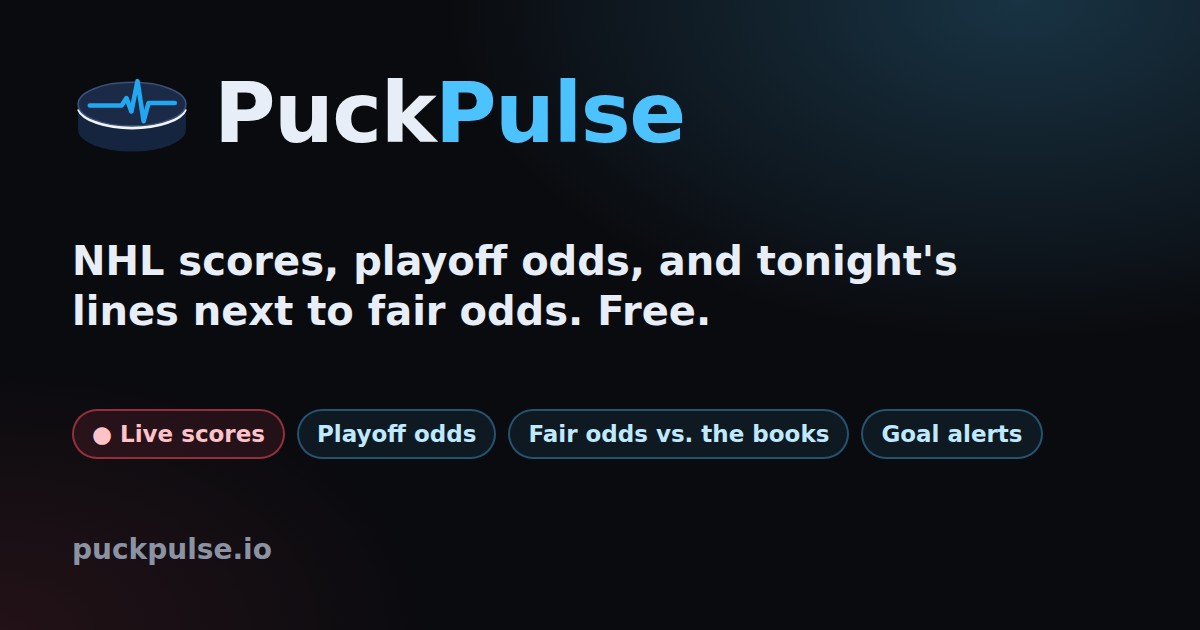
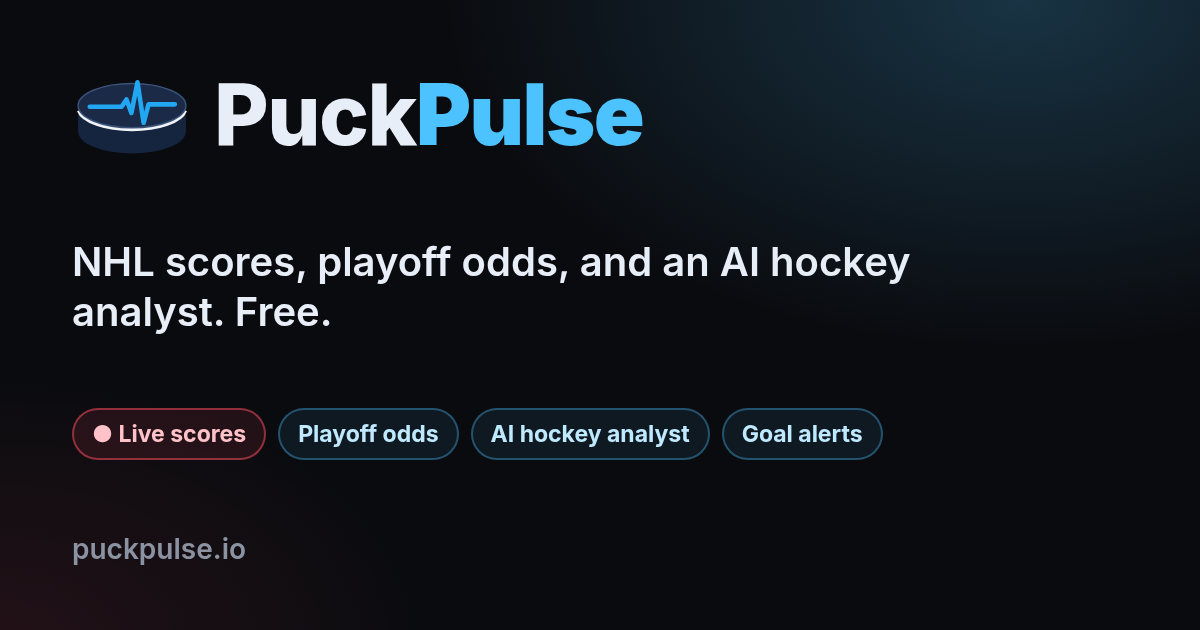
Pre-launch SEO/share fixes: neutral preview, robots + sitemap, page titles, /t/ team cards

diff --git a/frontend/src/seo/site.js b/frontend/src/seo/site.js
@@ -1,0 +1,54 @@
+// The site's public routes and teams, in one place: the sitemap
+// (public/sitemap.xml, checked by site.test.js), page titles (usePageTitle),
+// and the /t/{abbrev} share links all read from here.
+
+export const SITE = "https://puckpulse.io";
+
+export const TEAMS = {
+  ANA: "Anaheim Ducks", BOS: "Boston Bruins", BUF: "Buffalo Sabres", CGY: "Calgary Flames",
+  CAR: "Carolina Hurricanes", CHI: "Chicago Blackhawks", COL: "Colorado Avalanche", CBJ: "Columbus Blue Jackets",
+  DAL: "Dallas Stars", DET: "Detroit Red Wings", EDM: "Edmonton Oilers", FLA: "Florida Panthers",
+  LAK: "Los Angeles Kings", MIN: "Minnesota Wild", MTL: "Montréal Canadiens", NSH: "Nashville Predators",
+  NJD: "New Jersey Devils", NYI: "New York Islanders", NYR: "New York Rangers", OTT: "Ottawa Senators",
+  PHI: "Philadelphia Flyers", PIT: "Pittsburgh Penguins", SJS: "San Jose Sharks", SEA: "Seattle Kraken",
+  STL: "St. Louis Blues", TBL: "Tampa Bay Lightning", TOR: "Toronto Maple Leafs", UTA: "Utah Mammoth",
+  VAN: "Vancouver Canucks", VGK: "Vegas Golden Knights", WSH: "Washington Capitals", WPG: "Winnipeg Jets",
+};
+
+// Indexable top-level pages (no per-game/player pages, no redirects).
+export const PAGES = [
+  { path: "/", title: null },
+  { path: "/standings", title: "NHL Standings" },
+  { path: "/playoffs", title: "NHL Playoff Odds" },
+  { path: "/players", title: "NHL Player Leaders" },
+  { path: "/news", title: "NHL News" },
+  { path: "/track-record", title: "Prediction Track Record" },
+  { path: "/report-card", title: "Report Card" },
+  { path: "/draft-lottery", title: "NHL Draft Lottery Odds" },
+  { path: "/pickem", title: "Pick'em" },
+  { path: "/bets", title: "Bets", index: false }, // kept out of the sitemap: launch leads with non-betting pages
+];
+
+export const SITEMAP_PATHS = [...PAGES.filter((p) => p.index !== false).map((p) => p.path), ...Object.keys(TEAMS).map((t) => `/teams/${t}`)];
+
+export const BRAND = "PuckPulse";
+export const DEFAULT_TITLE = "PuckPulse: NHL scores, playoff odds, and an AI hockey analyst";
+
+// The document title for a path ("Standings | PuckPulse", "Buffalo Sabres playoff odds | PuckPulse").
+export function titleFor(pathname) {
+  const path = pathname.replace(/\/+$/, "") || "/";
+  const team = path.match(/^\/teams\/([A-Za-z]{3})$/);
+  if (team) {
+    const name = TEAMS[team[1].toUpperCase()];
+    return name ? `${name} playoff odds & stats | ${BRAND}` : DEFAULT_TITLE;
+  }
+  if (/^\/games\/\d+$/.test(path)) return `Game | ${BRAND}`;
+  if (/^\/players\/\d+$/.test(path)) return `Player | ${BRAND}`;
+  const page = PAGES.find((p) => p.path === path);
+  return page && page.title ? `${page.title} | ${BRAND}` : DEFAULT_TITLE;
+}
+
+export function sitemapXml(paths = SITEMAP_PATHS) {
+  const urls = paths.map((p) => `  <url><loc>${SITE}${p === "/" ? "/" : p}</loc></url>`).join("\n");
+  return `<?xml version="1.0" encoding="UTF-8"?>\n<urlset xmlns="http://www.sitemaps.org/schemas/sitemap/0.9">\n${urls}\n</urlset>\n`;
+}

diff --git a/frontend/api/share/index.js b/frontend/api/share/index.js
@@ -5,7 +5,8 @@
 // sends people straight on to the game page.
 //
 // staticwebapp.config.json rewrites /g/* here; the game id comes from the
-// original URL (or /api/share/{id} directly).
+// original URL (or /api/share/{id} directly). /t/{team abbrev} works the
+// same way for a team, sending people on to the team page.
 
 const API = "https://nhl-dashboard-api.bravecoast-a5240643.westus2.azurecontainerapps.io";
 const SITE = "https://puckpulse.io";
@@ -19,6 +20,22 @@ function gameId(req) {
   const fromUrl = (original.match(/\/g\/(\d+)/) || [])[1];
   const id = fromRoute || fromUrl || (req.query && req.query.id);
   return /^\d{6,12}$/.test(String(id || "")) ? String(id) : null;
+}
+
+// The 32 teams a /t/ link may name (matches frontend/src/seo/site.js).
+const TEAMS = new Set(("ANA BOS BUF CGY CAR CHI COL CBJ DAL DET EDM FLA LAK MIN MTL NSH NJD NYI NYR OTT " +
+  "PHI PIT SJS SEA STL TBL TOR UTA VAN VGK WSH WPG").split(" "));
+
+// "BUF" for /t/BUF (or /api/share/t/BUF, ?team=BUF); null for anything not a known team.
+function teamAbbrev(req) {
+  const original = req.headers["x-ms-original-url"] || "";
+  const fromUrl = (original.match(/\/t\/([A-Za-z]{3})(?:[/?#]|$)/) || [])[1];
+  const abbrev = String(fromUrl || (req.query && req.query.team) || "").toUpperCase();
+  return TEAMS.has(abbrev) ? abbrev : null;
+}
+
+function isTeamLink(req) {
+  return /\/t\//.test(req.headers["x-ms-original-url"] || "") || Boolean(req.query && req.query.team);
 }
 
 function page({ title, description, image, url }) {
@@ -39,14 +56,22 @@ ${tags.join("\n")}
 }
 
 module.exports = async function (context, req) {
-  const id = gameId(req);
+  const team = isTeamLink(req) ? teamAbbrev(req) : null;
+  const id = isTeamLink(req) ? null : gameId(req);
   let meta = {
-    title: "PuckPulse: NHL scores, playoff odds, and fair betting odds",
-    description: "Live NHL scores, playoff odds, goal alerts, and tonight's lines next to fair odds. Free.",
+    title: "PuckPulse: NHL scores, playoff odds, and an AI hockey analyst",
+    description: "Live NHL scores, playoff odds for every team, goal alerts, and an AI hockey analyst you can ask anything. Free.",
     image: `${SITE}/og-card.png`,
-    url: id ? `${SITE}/games/${id}` : SITE,
+    url: id ? `${SITE}/games/${id}` : team ? `${SITE}/teams/${team}` : SITE,
   };
-  if (id) {
+  if (team) {
+    try {
+      const response = await fetch(`${API}/teams/${team}/share`, { signal: AbortSignal.timeout(6000) });
+      if (response.ok) meta = { ...meta, ...(await response.json()) };
+    } catch (error) {
+      context.log.warn(`share team ${team}: ${error}`);
+    }
+  } else if (id) {
     try {
       const response = await fetch(`${API}/games/${id}/share`, { signal: AbortSignal.timeout(6000) });
       if (response.ok) meta = { ...meta, ...(await response.json()) };
@@ -60,3 +85,5 @@ module.exports = async function (context, req) {
     body: page(meta),
   };
 };
+
+module.exports.TEAMS = TEAMS;

diff --git a/frontend/src/seo/site.test.js b/frontend/src/seo/site.test.js
@@ -1,0 +1,55 @@
+import { readFileSync } from "node:fs";
+import { describe, expect, it } from "vitest";
+import { PAGES, SITEMAP_PATHS, TEAMS, sitemapXml, titleFor } from "./site.js";
+
+const read = (path) => readFileSync(new URL(path, import.meta.url), "utf8");
+
+describe("sitemap", () => {
+  it("public/sitemap.xml matches the route list (regenerate with sitemapXml() if this fails)", () => {
+    expect(read("../../public/sitemap.xml")).toBe(sitemapXml());
+  });
+
+  it("lists every top-level page App.jsx routes and all 32 teams", () => {
+    const app = read("../App.jsx");
+    for (const { path } of PAGES) expect(app).toContain(`path="${path}"`);
+    expect(Object.keys(TEAMS)).toHaveLength(32);
+    expect(SITEMAP_PATHS).toContain("/teams/BUF");
+    expect(SITEMAP_PATHS).not.toContain("/bets");
+  });
+
+  it("robots.txt allows all and points to the sitemap", () => {
+    const robots = read("../../public/robots.txt");
+    expect(robots).toMatch(/User-agent: \*\nAllow: \//);
+    expect(robots).toContain("Sitemap: https://puckpulse.io/sitemap.xml");
+  });
+
+  it("the static site serves robots/sitemap as files and /t/* via the share function", () => {
+    const config = JSON.parse(read("../../public/staticwebapp.config.json"));
+    expect(config.navigationFallback.exclude.join(" ")).toMatch(/xml/);
+    expect(config.routes).toContainEqual({ route: "/t/*", rewrite: "/api/share" });
+  });
+
+  it("the share function knows the same 32 teams", async () => {
+    const { TEAMS: shareTeams } = await import("../../api/share/index.js");
+    expect([...shareTeams].sort()).toEqual(Object.keys(TEAMS).sort());
+  });
+});
+
+describe("titleFor", () => {
+  it("names pages and teams", () => {
+    expect(titleFor("/standings")).toBe("NHL Standings | PuckPulse");
+    expect(titleFor("/teams/buf")).toBe("Buffalo Sabres playoff odds & stats | PuckPulse");
+    expect(titleFor("/teams/XYZ")).toBe("PuckPulse: NHL scores, playoff odds, and an AI hockey analyst");
+    expect(titleFor("/")).toBe("PuckPulse: NHL scores, playoff odds, and an AI hockey analyst");
+    expect(titleFor("/games/2026020150")).toBe("Game | PuckPulse");
+  });
+});
+
+describe("site-wide preview", () => {
+  it("has no betting wording", () => {
+    const html = read("../../index.html");
+    const meta = html.match(/<meta[^>]+>/g).filter((t) => /description|og:|twitter:/.test(t)).join("\n");
+    expect(meta).toContain("AI hockey analyst");
+    expect(meta).not.toMatch(/bet|lines|fair odds|gambl/i);
+  });
+});

diff --git a/frontend/index.html b/frontend/index.html
@@ -3,19 +3,21 @@
   <head>
     <meta charset="UTF-8" />
     <meta name="viewport" content="width=device-width, initial-scale=1.0, viewport-fit=cover" />
-    <title>PuckPulse</title>
+    <title>PuckPulse: NHL scores, playoff odds, and an AI hockey analyst</title>
     <meta name="description" content="Live NHL scores, playoff odds, goal alerts, and an AI hockey analyst." />
     <!-- Link previews (iMessage, Discord, Reddit, X, Slack...): the card in public/og-card.png. -->
     <meta property="og:type" content="website" />
     <meta property="og:site_name" content="PuckPulse" />
-    <meta property="og:title" content="PuckPulse: NHL scores, playoff odds, and fair betting odds" />
-    <meta property="og:description" content="Live NHL scores, playoff odds, goal alerts, and tonight's lines next to fair odds. Free." />
+    <meta property="og:title" content="PuckPulse: NHL scores, playoff odds, and an AI hockey analyst" />
+    <meta property="og:description" content="Live NHL scores, playoff odds for every team, goal alerts, and an AI hockey analyst you can ask anything. Free." />
     <meta property="og:url" content="https://puckpulse.io/" />
     <meta property="og:image" content="https://puckpulse.io/og-card.png" />
     <meta property="og:image:width" content="1200" />
     <meta property="og:image:height" content="630" />
-    <meta property="og:image:alt" content="PuckPulse: NHL scores, playoff odds, and tonight's lines next to fair odds." />
+    <meta property="og:image:alt" content="PuckPulse: NHL scores, playoff odds, and an AI hockey analyst" />
     <meta name="twitter:card" content="summary_large_image" />
+    <meta name="twitter:title" content="PuckPulse: NHL scores, playoff odds, and an AI hockey analyst" />
+    <meta name="twitter:description" content="Live NHL scores, playoff odds for every team, goal alerts, and an AI hockey analyst you can ask anything. Free." />
     <meta name="twitter:image" content="https://puckpulse.io/og-card.png" />
     <meta name="theme-color" content="#0a0b0f" />
     <script src="/theme-init.js"></script>

diff --git a/frontend/src/App.jsx b/frontend/src/App.jsx
@@ -6,6 +6,7 @@ import IntelligencePanel from "./components/IntelligencePanel.jsx";
 import { useFetchWithStatus } from "./hooks/useFetchWithStatus.js";
 import { useFavoriteTeam } from "./hooks/useFavoriteTeam.js";
 import { useScrollToTop } from "./hooks/useScrollToTop.js";
+import usePageTitle from "./hooks/usePageTitle.js";
 import { useTheme } from "./hooks/useTheme.js";
 import { cachedResponse } from "./utils/responseCache.js";
 import TopNav from "./components/TopNav.jsx";
@@ -28,6 +29,11 @@ function ShareRedirect() {
   const { gameId } = useParams();
   return <Navigate to={`/games/${gameId}`} replace />;
 }
+
+function TeamShareRedirect() {
+  const { teamAbbrev } = useParams();
+  return <Navigate to={`/teams/${teamAbbrev.toUpperCase()}`} replace />;
+}
 import TrackRecordPage from "./pages/TrackRecordPage.jsx";
 import NewsPage from "./pages/NewsPage.jsx";
 
@@ -46,6 +52,7 @@ export default function NHLDashboard() {
 
   const navigate = useNavigate();
   const location = useLocation();
+  usePageTitle();
   useScrollToTop();
   // Held here, not in the header, so a switch re-renders the whole page
   // (team logos pick their version by theme as they render).
@@ -204,6 +211,8 @@ export default function NHLDashboard() {
           {/* A shared link (puckpulse.io/g/{id}): the server answers it with the preview card and a redirect,
               but an installed app's service worker serves the app shell instead, so forward it here too. */}
           <Route path="/g/:gameId" element={<ShareRedirect />} />
+          {/* Same for a shared team, puckpulse.io/t/{abbrev}. */}
+          <Route path="/t/:teamAbbrev" element={<TeamShareRedirect />} />
           {/* Old URL, kept so existing bookmarks and installs still work. */}
           <Route path="/leaderboard" element={<Navigate to="/players" replace />} />
           <Route path="*" element={<Navigate to="/" replace />} />

diff --git a/frontend/design/og-card.html b/frontend/design/og-card.html
@@ -14,6 +14,6 @@ body{width:1200px;height:630px;overflow:hidden;font-family:Inter,'Segoe UI',syst
 .url{font-size:28px;color:#8b93a3;font-weight:600}
 </style></head><body><div class="wrap">
 <div class="brand"><img src="../public/logo-mark.svg"><div class="name">Puck<b>Pulse</b></div></div>
-<div class="tag">NHL scores, playoff odds, and tonight's lines next to fair odds. Free.</div>
-<div class="chips"><span class="chip live">● Live scores</span><span class="chip">Playoff odds</span><span class="chip">Fair odds vs. the books</span><span class="chip">Goal alerts</span></div>
+<div class="tag">NHL scores, playoff odds, and an AI hockey analyst. Free.</div>
+<div class="chips"><span class="chip live">● Live scores</span><span class="chip">Playoff odds</span><span class="chip">AI hockey analyst</span><span class="chip">Goal alerts</span></div>
 <div class="url">puckpulse.io</div></div></body></html>

diff --git a/frontend/src/hooks/usePageTitle.test.jsx b/frontend/src/hooks/usePageTitle.test.jsx
@@ -1,0 +1,21 @@
+import { render } from "@testing-library/react";
+import { MemoryRouter } from "react-router-dom";
+import { describe, expect, it } from "vitest";
+import usePageTitle from "./usePageTitle.js";
+
+function Probe() {
+  usePageTitle();
+  return null;
+}
+
+describe("usePageTitle", () => {
+  it("sets the title for the route", () => {
+    render(<MemoryRouter initialEntries={["/teams/PIT"]}><Probe /></MemoryRouter>);
+    expect(document.title).toBe("Pittsburgh Penguins playoff odds & stats | PuckPulse");
+  });
+
+  it("uses the page name", () => {
+    render(<MemoryRouter initialEntries={["/playoffs"]}><Probe /></MemoryRouter>);
+    expect(document.title).toBe("NHL Playoff Odds | PuckPulse");
+  });
+});

diff --git a/frontend/vite.config.js b/frontend/vite.config.js
@@ -40,6 +40,8 @@ export default defineConfig({
       workbox: {
         globPatterns: ['**/*.{js,css,html,svg,png,ico,webmanifest}'],
         navigateFallback: '/index.html',
+        // Files and share links the app shell must not answer for.
+        navigateFallbackDenylist: [/^\/(robots\.txt|sitemap\.xml)$/, /^\/api\//],
         cleanupOutdatedCaches: true,
         // Goal/final push notifications (public/push-sw.js).
         importScripts: ['push-sw.js'],

diff --git a/frontend/src/hooks/usePageTitle.js b/frontend/src/hooks/usePageTitle.js
@@ -1,0 +1,11 @@
+import { useEffect } from "react";
+import { useLocation } from "react-router-dom";
+import { titleFor } from "../seo/site.js";
+
+// Sets document.title from the current route (see seo/site.js titleFor).
+export default function usePageTitle() {
+  const { pathname } = useLocation();
+  useEffect(() => {
+    document.title = titleFor(pathname);
+  }, [pathname]);
+}

diff --git a/backend/api.py b/backend/api.py
@@ -510,6 +510,46 @@ def game_share(game_id: int = Path(..., gt=0)):
             "image": f"https://nhl-dashboard-api.bravecoast-a5240643.westus2.azurecontainerapps.io/og/game/{game_id}.png"}
 
 
+@app.get("/teams/{team_abbrev}/share")
+def team_share(team_abbrev: str = Path(..., pattern=r"^[A-Za-z]{3}$")):
+    """Title and description for a team's link preview (served by the site's /t/{abbrev} share page)."""
+    abbrev = team_abbrev.upper()
+    if abbrev not in og_image.TEAM_COLORS:
+        raise HTTPException(status_code=404, detail="No such team")
+    conn = get_connection()
+    try:
+        with conn.cursor() as cur:
+            cur.execute(
+                """
+                SELECT t.team_name, s.wins, s.losses, s.ot_losses, s.points
+                FROM teams t
+                LEFT JOIN standings_snapshots s ON s.team_abbrev = t.team_abbrev
+                    AND s.snapshot_date = (SELECT MAX(snapshot_date) FROM standings_snapshots)
+                WHERE t.team_abbrev = %s
+                """,
+                (abbrev,),
+            )
+            team = cur.fetchone()
+            cur.execute(
+                """
+                SELECT playoff_pct FROM playoff_odds
+                WHERE team_abbrev = %s
+                  AND season_id = (SELECT MAX(season_id) FROM playoff_odds)
+                ORDER BY as_of_date DESC LIMIT 1
+                """,
+                (abbrev,),
+            )
+            odds = cur.fetchone()
+    finally:
+        conn.close()
+    if not team:
+        raise HTTPException(status_code=404, detail="No such team")
+    title, description = og_image.team_share_text(
+        abbrev, team, float(odds["playoff_pct"]) if odds and odds.get("playoff_pct") is not None else None
+    )
+    return {"title": title, "description": description, "url": f"https://puckpulse.io/teams/{abbrev}"}
+
+
 @app.get("/teams/{team_abbrev}/schedule")
 def team_schedule_summary(team_abbrev: str = Path(..., pattern=r"^[A-Za-z]{3}$")):
     """

diff --git a/backend/og_image.py b/backend/og_image.py
@@ -142,3 +142,19 @@ def share_text(game, home_win_prob=None):
         return title, "Preview, projected lines, and goalies on PuckPulse."
     fav, pct = (home, home_win_prob) if home_win_prob >= 0.5 else (away, 1 - home_win_prob)
     return title, f"PuckPulse gives {fav} a {round(pct * 100)}% chance to win. Lines, goalies, and fair odds."
+
+
+def team_share_text(abbrev, team, playoff_pct=None):
+    """(title, description) for a team's link preview. playoff_pct is the stored 0-1 fraction."""
+    name = (team or {}).get("team_name") or abbrev
+    wins, losses, otl = (team or {}).get("wins"), (team or {}).get("losses"), (team or {}).get("ot_losses")
+    record = f"{wins}-{losses}-{otl or 0}" if wins is not None and losses is not None else None
+    if playoff_pct is not None:
+        pct = playoff_pct * 100
+        shown = "<1" if 0 < pct < 1 else (">99" if 99 < pct < 100 else f"{pct:.1f}".rstrip("0").rstrip("."))
+        title = f"{name}: {shown}% to make the playoffs"
+    else:
+        title = f"{name} on PuckPulse"
+    parts = [f"{record}, {team['points']} pts." if record and team.get("points") is not None else None,
+             "Playoff odds, schedule, roster, and stats on PuckPulse."]
+    return title, " ".join(p for p in parts if p)

diff --git a/backend/tests/test_og_image.py b/backend/tests/test_og_image.py
@@ -36,3 +36,16 @@ def test_share_text_names_the_favorite_before_and_the_score_after():
 def test_light_team_colors_get_dark_text():
     assert og._text_on(og._rgb("#FCB514")) != (255, 255, 255)  # Pittsburgh gold
     assert og._text_on(og._rgb("#002654")) == (255, 255, 255)
+
+
+def test_team_share_text_leads_with_playoff_odds_and_record():
+    team = {"team_name": "Buffalo Sabres", "wins": 3, "losses": 3, "ot_losses": 0, "points": 6}
+    title, description = og.team_share_text("BUF", team, 0.177)
+    assert title == "Buffalo Sabres: 17.7% to make the playoffs"
+    assert description.startswith("3-3-0, 6 pts.")
+    assert og.team_share_text("BUF", team, 0.004)[0].endswith("<1% to make the playoffs")
+    assert og.team_share_text("BUF", team, 1.0)[0].endswith("100% to make the playoffs")
+    title, description = og.team_share_text("BUF", {"team_name": "Buffalo Sabres"})
+    assert title == "Buffalo Sabres on PuckPulse" and description.startswith("Playoff odds")
+    for text in (title, description):
+        assert "bet" not in text.lower()
